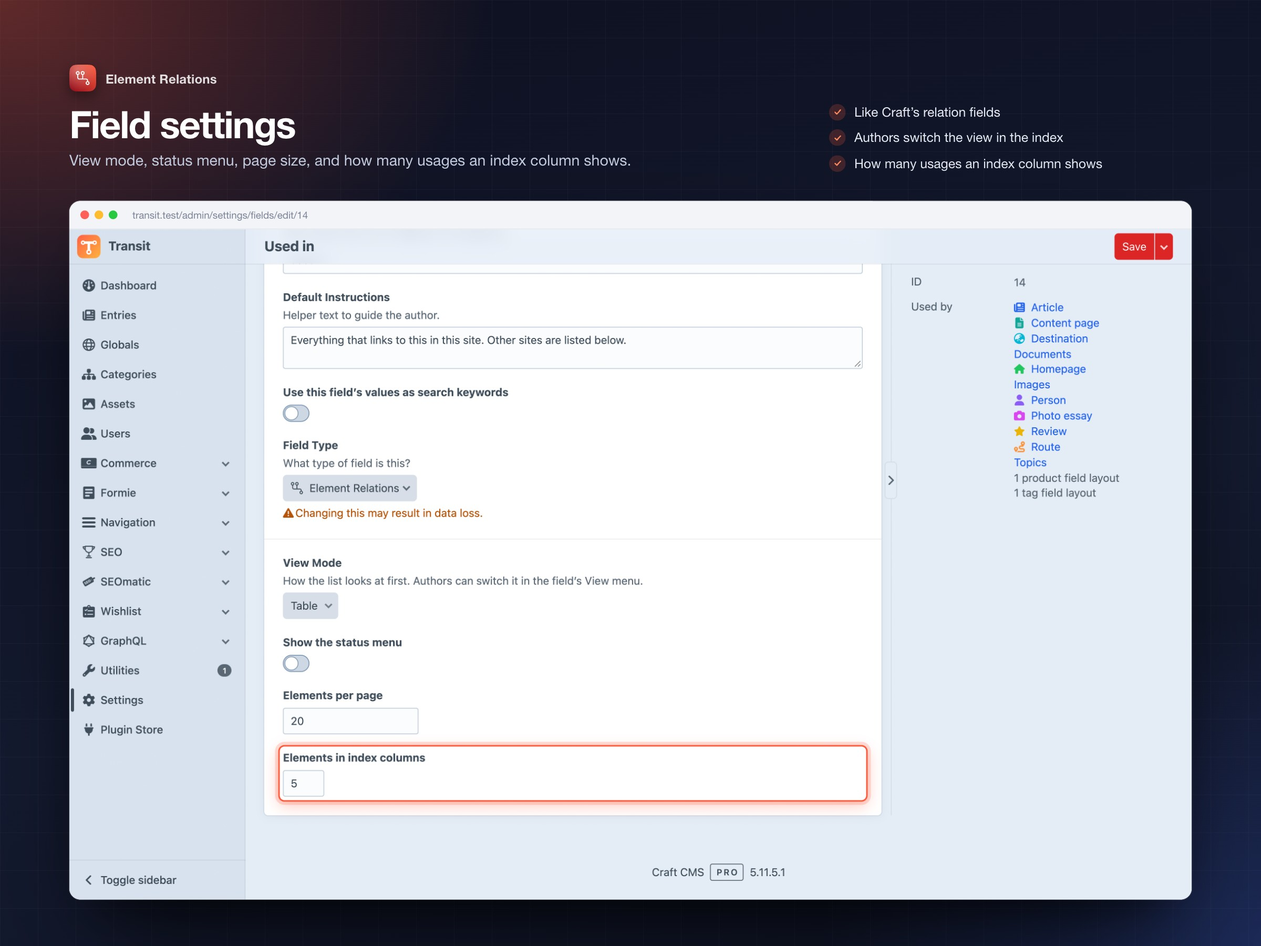
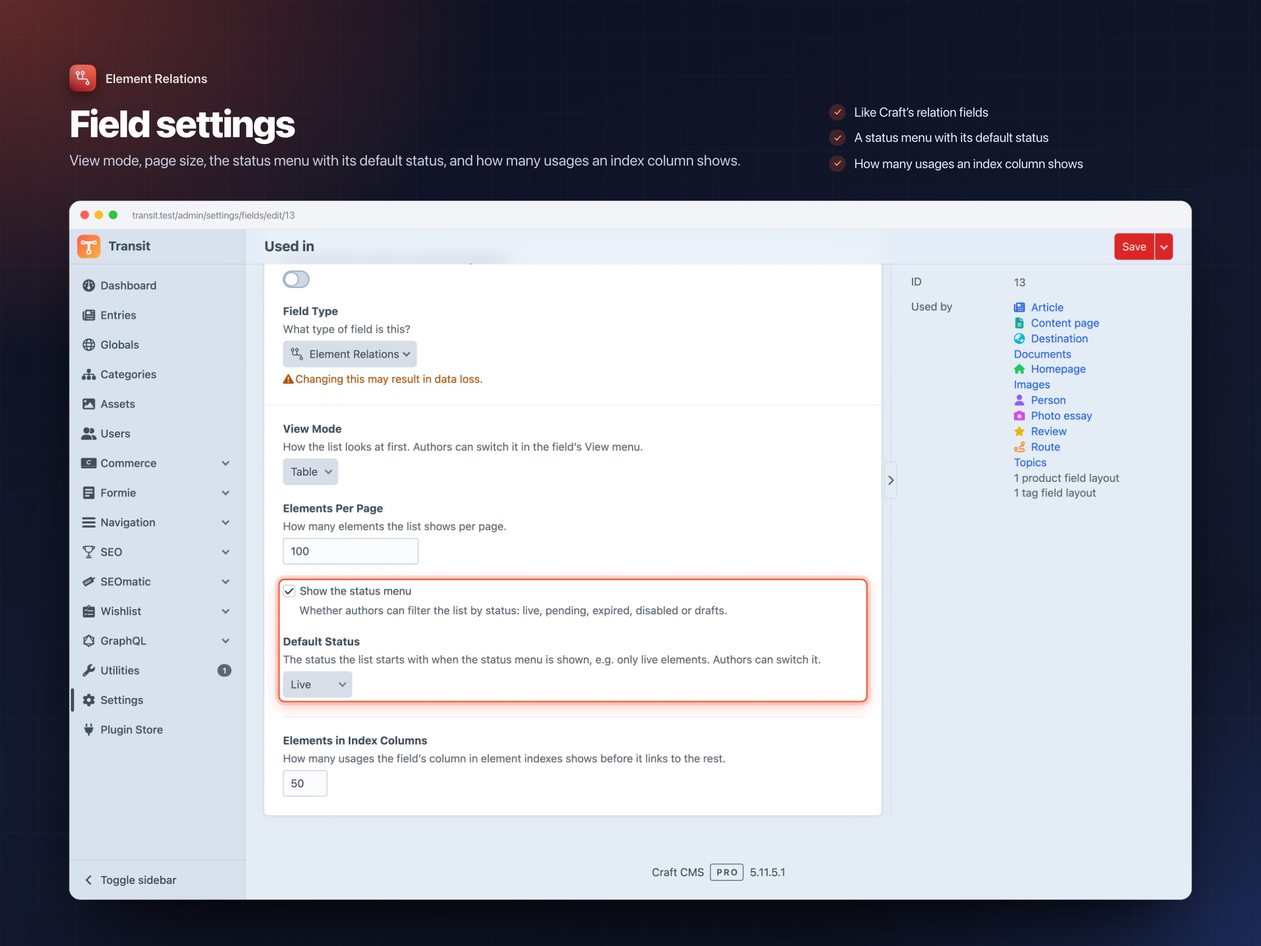
Settings laid out like Craft's own relation fields: Title Case labels, instructions everywhere, status menu as a checkbox with Default Status below it, index column setting after a rule; plugin settings grouped

diff --git a/src/fields/ElementRelationsField.php b/src/fields/ElementRelationsField.php
@@ -96,7 +96,9 @@ class ElementRelationsField extends Field implements PreviewableFieldInterface, 
     }
 
     /**
-     * The same settings Craft's relational fields offer for their element index, built with Craft's form helpers.
+     * Laid out like Craft's own relation fields (BaseRelationField): the list's look, its status menu, then (after a
+     * rule) the field's column in element indexes; Title Case labels, instructions on every setting, a checkbox for the
+     * on/off one, and a dependent setting only while it applies.
      */
     public function getSettingsHtml(): ?string
     {
@@ -112,28 +114,9 @@ class ElementRelationsField extends Field implements PreviewableFieldInterface, 
             'value' => $this->viewMode,
             'errors' => $this->getErrors('viewMode'),
         ]);
-        $html .= Cp::lightswitchFieldHtml([
-            'label' => Craft::t('element-relations', 'settings-show-status-menu'),
-            'id' => 'showStatusMenu',
-            'name' => 'showStatusMenu',
-            'on' => $this->showStatusMenu,
-            'toggle' => 'defaultStatus-field', // Craft shows the Default Status only while the status menu is on
-        ]);
-        $html .= Cp::selectFieldHtml([
-            'label' => Craft::t('app', 'Default Status'),
-            'instructions' => Craft::t('element-relations', 'settings-default-status-instructions'),
-            'id' => 'defaultStatus',
-            'fieldAttributes' => ['class' => $this->showStatusMenu ? [] : ['hidden']],
-            'name' => 'defaultStatus',
-            'options' => [
-                ['label' => Craft::t('app', 'All'), 'value' => ''],
-                ...array_map(fn(string $status, array|string $info): array => ['label' => is_array($info) ? $info['label'] : $info, 'value' => $status], array_keys(Usage::statuses()), Usage::statuses()),
-            ],
-            'value' => $this->defaultStatus ?? '',
-            'errors' => $this->getErrors('defaultStatus'),
-        ]);
         $html .= Cp::textFieldHtml([
             'label' => Craft::t('element-relations', 'settings-page-size'),
+            'instructions' => Craft::t('element-relations', 'settings-page-size-instructions'),
             'id' => 'pageSize',
             'name' => 'pageSize',
             'type' => 'number',
@@ -142,8 +125,32 @@ class ElementRelationsField extends Field implements PreviewableFieldInterface, 
             'value' => $this->pageSize,
             'errors' => $this->getErrors('pageSize'),
         ]);
+        $html .= Cp::checkboxFieldHtml([
+            'fieldset' => true,
+            'checkboxLabel' => Craft::t('element-relations', 'settings-show-status-menu'),
+            'instructions' => Craft::t('element-relations', 'settings-show-status-menu-instructions'),
+            'id' => 'showStatusMenu',
+            'name' => 'showStatusMenu',
+            'checked' => $this->showStatusMenu,
+            'toggle' => 'defaultStatus-field', // Craft shows the Default Status only while the status menu is on
+        ]);
+        $html .= Cp::selectFieldHtml([
+            'label' => Craft::t('app', 'Default Status'),
+            'instructions' => Craft::t('element-relations', 'settings-default-status-instructions'),
+            'id' => 'defaultStatus',
+            'fieldClass' => $this->showStatusMenu ? null : ['hidden'],
+            'name' => 'defaultStatus',
+            'options' => [
+                ['label' => Craft::t('app', 'All'), 'value' => ''],
+                ...array_map(fn(string $status, array|string $info): array => ['label' => is_array($info) ? $info['label'] : $info, 'value' => $status], array_keys(Usage::statuses()), Usage::statuses()),
+            ],
+            'value' => $this->defaultStatus ?? '',
+            'errors' => $this->getErrors('defaultStatus'),
+        ]);
+        $html .= Html::tag('hr');
         $html .= Cp::textFieldHtml([
             'label' => Craft::t('element-relations', 'settings-preview-limit'),
+            'instructions' => Craft::t('element-relations', 'settings-preview-limit-instructions'),
             'id' => 'previewLimit',
             'name' => 'previewLimit',
             'type' => 'number',

diff --git a/src/translations/en-GB/element-relations.php b/src/translations/en-GB/element-relations.php
@@ -137,11 +137,11 @@ return [
     'condition-used' => 'Used anywhere',
     'settings-view-mode-instructions' => 'How the list looks at first. Authors can switch it in the field’s View menu.',
     'settings-show-status-menu' => 'Show the status menu',
-    'settings-page-size' => 'Elements per page',
-    'settings-preview-limit' => 'Elements in index columns',
+    'settings-page-size' => 'Elements Per Page',
+    'settings-preview-limit' => 'Elements in Index Columns',
     'settings-overridden' => 'This is being overridden by the `{name}` setting in config/element-relations.php.',
-    'settings-batch-size-label' => 'Bulk-refresh batch size',
-    'settings-protect-label' => 'Protect elements in use',
+    'settings-batch-size-label' => 'Rebuild Batch Size',
+    'settings-protect-label' => 'Protect Elements in Use',
     'upsell-replace' => 'Pro: replace these usages in one go, with a review first and undo any time.',
     'upsell-unused' => 'Pro: find everything nobody uses, right in Craft’s filter.',
     'upsell-link' => 'Upgrade to Pro',
@@ -153,9 +153,12 @@ return [
     'upsell-settings-protect' => 'Keep editors from deleting or disabling what live content uses',
     'upsell-settings-cli' => 'Replace from the command line and in migrations, also from a CSV',
     'settings-protect-instructions' => 'Editors can’t delete or take offline what live content uses, unless they have the permission “Delete or disable elements that are in use”. Off: Craft’s usual behaviour.',
-    'settings-batch-size-instructions' => 'How many elements one queue job handles when the cache is rebuilt.',
+    'settings-batch-size-instructions' => 'How many elements a rebuild job refreshes before it queues its next batch.',
     'filter-element-type' => 'Element Type',
     'settings-default-status-instructions' => 'The status the list starts with when the status menu is shown, e.g. only live elements. Authors can switch it.',
-    'settings-parallel-jobs-label' => 'Parallel rebuild jobs',
+    'settings-parallel-jobs-label' => 'Parallel Rebuild Jobs',
     'settings-parallel-jobs-instructions' => 'How many queue jobs a full rebuild of the cache runs at the same time. At most the number of queue workers; fewer leaves workers free for other jobs.',
+    'settings-page-size-instructions' => 'How many elements the list shows per page.',
+    'settings-show-status-menu-instructions' => 'Whether authors can filter the list by status: live, pending, expired, disabled or drafts.',
+    'settings-preview-limit-instructions' => 'How many usages the field’s column in element indexes shows before it links to the rest.',
 ];

diff --git a/src/translations/en/element-relations.php b/src/translations/en/element-relations.php
@@ -137,11 +137,11 @@ return [
     'condition-used' => 'Used anywhere',
     'settings-view-mode-instructions' => 'How the list looks at first. Authors can switch it in the field’s View menu.',
     'settings-show-status-menu' => 'Show the status menu',
-    'settings-page-size' => 'Elements per page',
-    'settings-preview-limit' => 'Elements in index columns',
+    'settings-page-size' => 'Elements Per Page',
+    'settings-preview-limit' => 'Elements in Index Columns',
     'settings-overridden' => 'This is being overridden by the `{name}` setting in config/element-relations.php.',
-    'settings-batch-size-label' => 'Bulk-refresh batch size',
-    'settings-protect-label' => 'Protect elements in use',
+    'settings-batch-size-label' => 'Rebuild Batch Size',
+    'settings-protect-label' => 'Protect Elements in Use',
     'upsell-replace' => 'Pro: replace these usages in one go, with a review first and undo any time.',
     'upsell-unused' => 'Pro: find everything nobody uses, right in Craft’s filter.',
     'upsell-link' => 'Upgrade to Pro',
@@ -153,9 +153,12 @@ return [
     'upsell-settings-protect' => 'Keep editors from deleting or disabling what live content uses',
     'upsell-settings-cli' => 'Replace from the command line and in migrations, also from a CSV',
     'settings-protect-instructions' => 'Editors can’t delete or take offline what live content uses, unless they have the permission “Delete or disable elements that are in use”. Off: Craft’s usual behaviour.',
-    'settings-batch-size-instructions' => 'How many elements one queue job handles when the cache is rebuilt.',
+    'settings-batch-size-instructions' => 'How many elements a rebuild job refreshes before it queues its next batch.',
     'filter-element-type' => 'Element Type',
     'settings-default-status-instructions' => 'The status the list starts with when the status menu is shown, e.g. only live elements. Authors can switch it.',
-    'settings-parallel-jobs-label' => 'Parallel rebuild jobs',
+    'settings-parallel-jobs-label' => 'Parallel Rebuild Jobs',
     'settings-parallel-jobs-instructions' => 'How many queue jobs a full rebuild of the cache runs at the same time. At most the number of queue workers; fewer leaves workers free for other jobs.',
+    'settings-page-size-instructions' => 'How many elements the list shows per page.',
+    'settings-show-status-menu-instructions' => 'Whether authors can filter the list by status: live, pending, expired, disabled or drafts.',
+    'settings-preview-limit-instructions' => 'How many usages the field’s column in element indexes shows before it links to the rest.',
 ];

diff --git a/src/translations/th/element-relations.php b/src/translations/th/element-relations.php
@@ -158,4 +158,7 @@ return [
     'settings-default-status-instructions' => 'สถานะเริ่มต้นของรายการเมื่อแสดงเมนูสถานะ เช่น เฉพาะองค์ประกอบที่เผยแพร่ ผู้เขียนเปลี่ยนได้',
     'settings-parallel-jobs-label' => 'งานสร้างใหม่แบบขนาน',
     'settings-parallel-jobs-instructions' => 'จำนวนงานในคิวที่การสร้างแคชใหม่ทั้งหมดรันพร้อมกัน ไม่เกินจำนวน worker ถ้าน้อยกว่าจะเหลือ worker ไว้ทำงานอื่น',
+    'settings-page-size-instructions' => 'จำนวนองค์ประกอบที่รายการแสดงต่อหน้า',
+    'settings-show-status-menu-instructions' => 'ผู้เขียนกรองรายการตามสถานะได้หรือไม่: เผยแพร่ รอดำเนินการ หมดอายุ ปิดใช้งาน หรือฉบับร่าง',
+    'settings-preview-limit-instructions' => 'จำนวนการใช้งานที่คอลัมน์ของฟิลด์ในดัชนีองค์ประกอบแสดงก่อนลิงก์ไปยังส่วนที่เหลือ',
 ];

diff --git a/src/translations/el/element-relations.php b/src/translations/el/element-relations.php
@@ -158,4 +158,7 @@ return [
     'settings-default-status-instructions' => 'Η κατάσταση με την οποία ξεκινά η λίστα όταν εμφανίζεται το μενού καταστάσεων, π.χ. μόνο δημοσιευμένα στοιχεία. Οι συντάκτες μπορούν να την αλλάξουν.',
     'settings-parallel-jobs-label' => 'Παράλληλες εργασίες ανακατασκευής',
     'settings-parallel-jobs-instructions' => 'Πόσες εργασίες ουράς εκτελεί ταυτόχρονα μια πλήρης ανακατασκευή της cache. Το πολύ όσοι workers υπάρχουν· λιγότερες αφήνουν workers ελεύθερους για άλλες εργασίες.',
+    'settings-page-size-instructions' => 'Πόσα στοιχεία δείχνει η λίστα ανά σελίδα.',
+    'settings-show-status-menu-instructions' => 'Αν οι συντάκτες μπορούν να φιλτράρουν τη λίστα κατά κατάσταση: δημοσιευμένα, σε αναμονή, ληγμένα, απενεργοποιημένα ή πρόχειρα.',
+    'settings-preview-limit-instructions' => 'Πόσες χρήσεις δείχνει η στήλη του πεδίου στα ευρετήρια στοιχείων πριν παραπέμψει στις υπόλοιπες.',
 ];

diff --git a/src/translations/ru/element-relations.php b/src/translations/ru/element-relations.php
@@ -158,4 +158,7 @@ return [
     'settings-default-status-instructions' => 'Статус, с которым открывается список, когда показано меню статусов, например только опубликованные элементы. Авторы могут его переключить.',
     'settings-parallel-jobs-label' => 'Параллельные задачи перестройки',
     'settings-parallel-jobs-instructions' => 'Сколько задач очереди одновременно выполняет полная перестройка кэша. Не больше числа воркеров; меньше оставляет воркеры свободными для других задач.',
+    'settings-page-size-instructions' => 'Сколько элементов список показывает на странице.',
+    'settings-show-status-menu-instructions' => 'Могут ли авторы фильтровать список по статусу: опубликован, ожидает, истёк, отключён или черновики.',
+    'settings-preview-limit-instructions' => 'Сколько использований показывает столбец поля в индексах элементов, прежде чем сослаться на остальные.',
 ];

diff --git a/src/translations/ky/element-relations.php b/src/translations/ky/element-relations.php
@@ -158,4 +158,7 @@ return [
     'settings-default-status-instructions' => 'Статус менюсу көрсөтүлгөндө тизме ачыла турган статус, мисалы жарыяланган элементтер гана. Авторлор аны алмаштыра алышат.',
     'settings-parallel-jobs-label' => 'Параллелдүү кайра куруу тапшырмалары',
     'settings-parallel-jobs-instructions' => 'Кэшти толук кайра куруу бир убакта канча кезек тапшырмасын аткарат. Эң көп дегенде воркерлердин саны; азыраак башка тапшырмалар үчүн воркерлерди бош калтырат.',
+    'settings-page-size-instructions' => 'Тизме бир баракта канча элемент көрсөтөт.',
+    'settings-show-status-menu-instructions' => 'Авторлор тизмени статус боюнча чыпкалай алабы: жарыяланган, күтүүдө, мөөнөтү бүткөн, өчүрүлгөн же долбоорлор.',
+    'settings-preview-limit-instructions' => 'Элемент индекстериндеги талаанын тилкеси калганына шилтеме берүүдөн мурун канча колдонууну көрсөтөт.',
 ];

diff --git a/src/translations/uk/element-relations.php b/src/translations/uk/element-relations.php
@@ -158,4 +158,7 @@ return [
     'settings-default-status-instructions' => 'Статус, з яким відкривається список, коли показано меню статусів, наприклад лише опубліковані елементи. Автори можуть його змінити.',
     'settings-parallel-jobs-label' => 'Паралельні завдання перебудови',
     'settings-parallel-jobs-instructions' => 'Скільки завдань черги одночасно виконує повна перебудова кешу. Не більше кількості воркерів; менше залишає воркери вільними для інших завдань.',
+    'settings-page-size-instructions' => 'Скільки елементів список показує на сторінці.',
+    'settings-show-status-menu-instructions' => 'Чи можуть автори фільтрувати список за статусом: опубліковано, очікує, минув, вимкнено або чернетки.',
+    'settings-preview-limit-instructions' => 'Скільки використань показує стовпець поля в індексах елементів, перш ніж послатися на решту.',
 ];

diff --git a/src/translations/fa/element-relations.php b/src/translations/fa/element-relations.php
@@ -158,4 +158,7 @@ return [
     'settings-default-status-instructions' => 'وضعیتی که فهرست با آن شروع میشود وقتی منوی وضعیت نمایش داده میشود، مثلاً فقط مؤلفههای منتشرشده. نویسندگان میتوانند آن را تغییر دهند.',
     'settings-parallel-jobs-label' => 'کارهای بازسازی موازی',
     'settings-parallel-jobs-instructions' => 'بازسازی کامل حافظهٔ پنهان همزمان چند کار صف را اجرا میکند. حداکثر به تعداد workerها؛ کمتر، workerهایی را برای کارهای دیگر آزاد میگذارد.',
+    'settings-page-size-instructions' => 'تعداد مؤلفههایی که فهرست در هر صفحه نشان میدهد.',
+    'settings-show-status-menu-instructions' => 'آیا نویسندگان میتوانند فهرست را بر اساس وضعیت فیلتر کنند: منتشرشده، در انتظار، منقضی، غیرفعال یا پیشنویس.',
+    'settings-preview-limit-instructions' => 'تعداد استفادههایی که ستون فیلد در فهرستهای مؤلفه پیش از پیوند به بقیه نشان میدهد.',
 ];

diff --git a/src/translations/ar/element-relations.php b/src/translations/ar/element-relations.php
@@ -158,4 +158,7 @@ return [
     'settings-default-status-instructions' => 'الحالة التي تبدأ بها القائمة عند عرض قائمة الحالات، مثل العناصر المنشورة فقط. يمكن للمؤلفين تغييرها.',
     'settings-parallel-jobs-label' => 'مهام إعادة البناء المتوازية',
     'settings-parallel-jobs-instructions' => 'عدد مهام قائمة الانتظار التي تشغّلها إعادة بناء ذاكرة التخزين المؤقت بالكامل في الوقت نفسه. على الأكثر عدد العمال؛ والأقل يترك عمالاً متاحين لمهام أخرى.',
+    'settings-page-size-instructions' => 'عدد العناصر التي تعرضها القائمة في كل صفحة.',
+    'settings-show-status-menu-instructions' => 'ما إذا كان بإمكان المؤلفين تصفية القائمة حسب الحالة: منشور، معلّق، منتهٍ، معطّل أو مسودات.',
+    'settings-preview-limit-instructions' => 'عدد الاستخدامات التي يعرضها عمود الحقل في فهارس العناصر قبل أن يربط ببقيتها.',
 ];

diff --git a/src/translations/he/element-relations.php b/src/translations/he/element-relations.php
@@ -158,4 +158,7 @@ return [
     'settings-default-status-instructions' => 'הסטטוס שבו הרשימה נפתחת כשתפריט הסטטוסים מוצג, למשל רק רכיבים חיים. מחברים יכולים להחליף אותו.',
     'settings-parallel-jobs-label' => 'משימות בנייה מחדש מקבילות',
     'settings-parallel-jobs-instructions' => 'כמה משימות תור מריצה בנייה מחדש מלאה של המטמון בו־זמנית. לכל היותר כמספר ה־workers; פחות משאיר workers פנויים למשימות אחרות.',
+    'settings-page-size-instructions' => 'כמה רכיבים הרשימה מציגה בכל עמוד.',
+    'settings-show-status-menu-instructions' => 'האם מחברים יכולים לסנן את הרשימה לפי סטטוס: חי, ממתין, פג תוקף, מושבת או טיוטות.',
+    'settings-preview-limit-instructions' => 'כמה שימושים מציגה עמודת השדה באינדקסים של רכיבים לפני שהיא מקשרת לשאר.',
 ];

diff --git a/src/translations/ja/element-relations.php b/src/translations/ja/element-relations.php
@@ -158,4 +158,7 @@ return [
     'settings-default-status-instructions' => 'ステータスメニューを表示する場合に、リストが最初に表示するステータス（例: 公開中のエレメントのみ）。作成者は切り替えられます。',
     'settings-parallel-jobs-label' => '並列の再構築ジョブ',
     'settings-parallel-jobs-instructions' => 'キャッシュの完全な再構築が同時に実行するキュージョブの数。最大でキューワーカーの数まで。少なくすると他のジョブ用にワーカーが空きます。',
+    'settings-page-size-instructions' => 'リストが1ページに表示するエレメントの数。',
+    'settings-show-status-menu-instructions' => '作成者がリストをステータスで絞り込めるかどうか：公開中、保留中、期限切れ、無効、下書き。',
+    'settings-preview-limit-instructions' => 'エレメントインデックスのこのフィールドの列が、残りへリンクする前に表示する使用箇所の数。',
 ];
